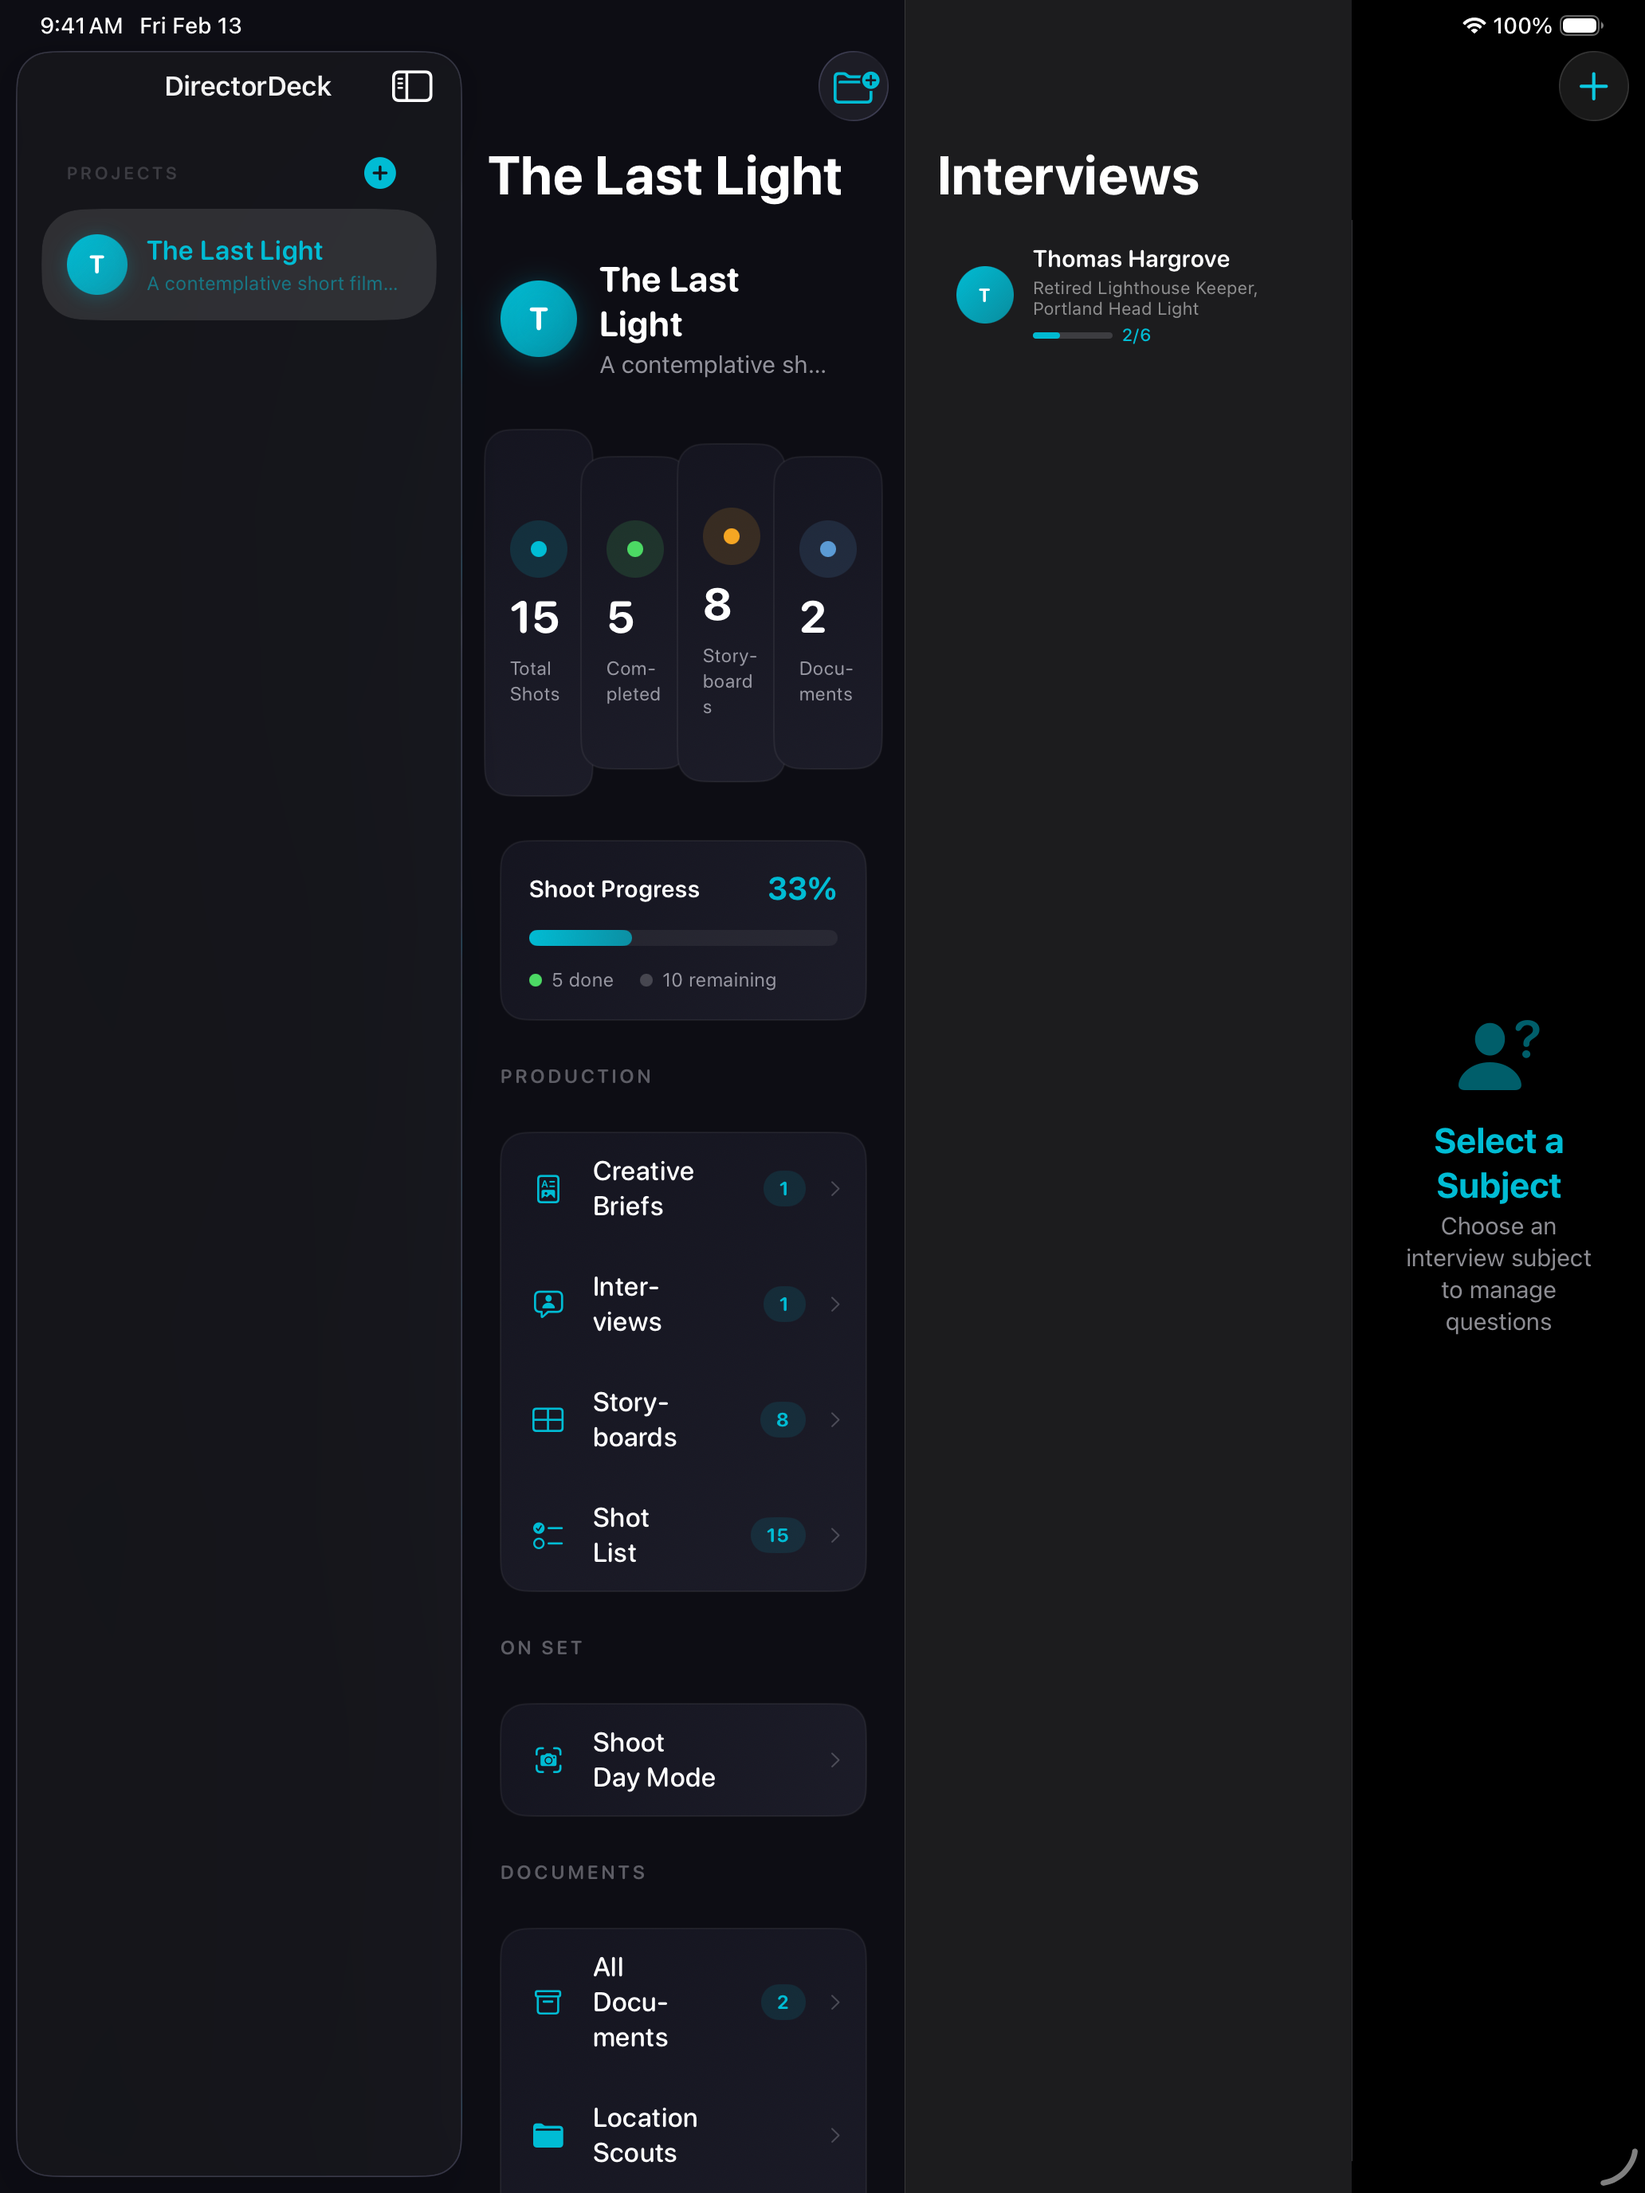
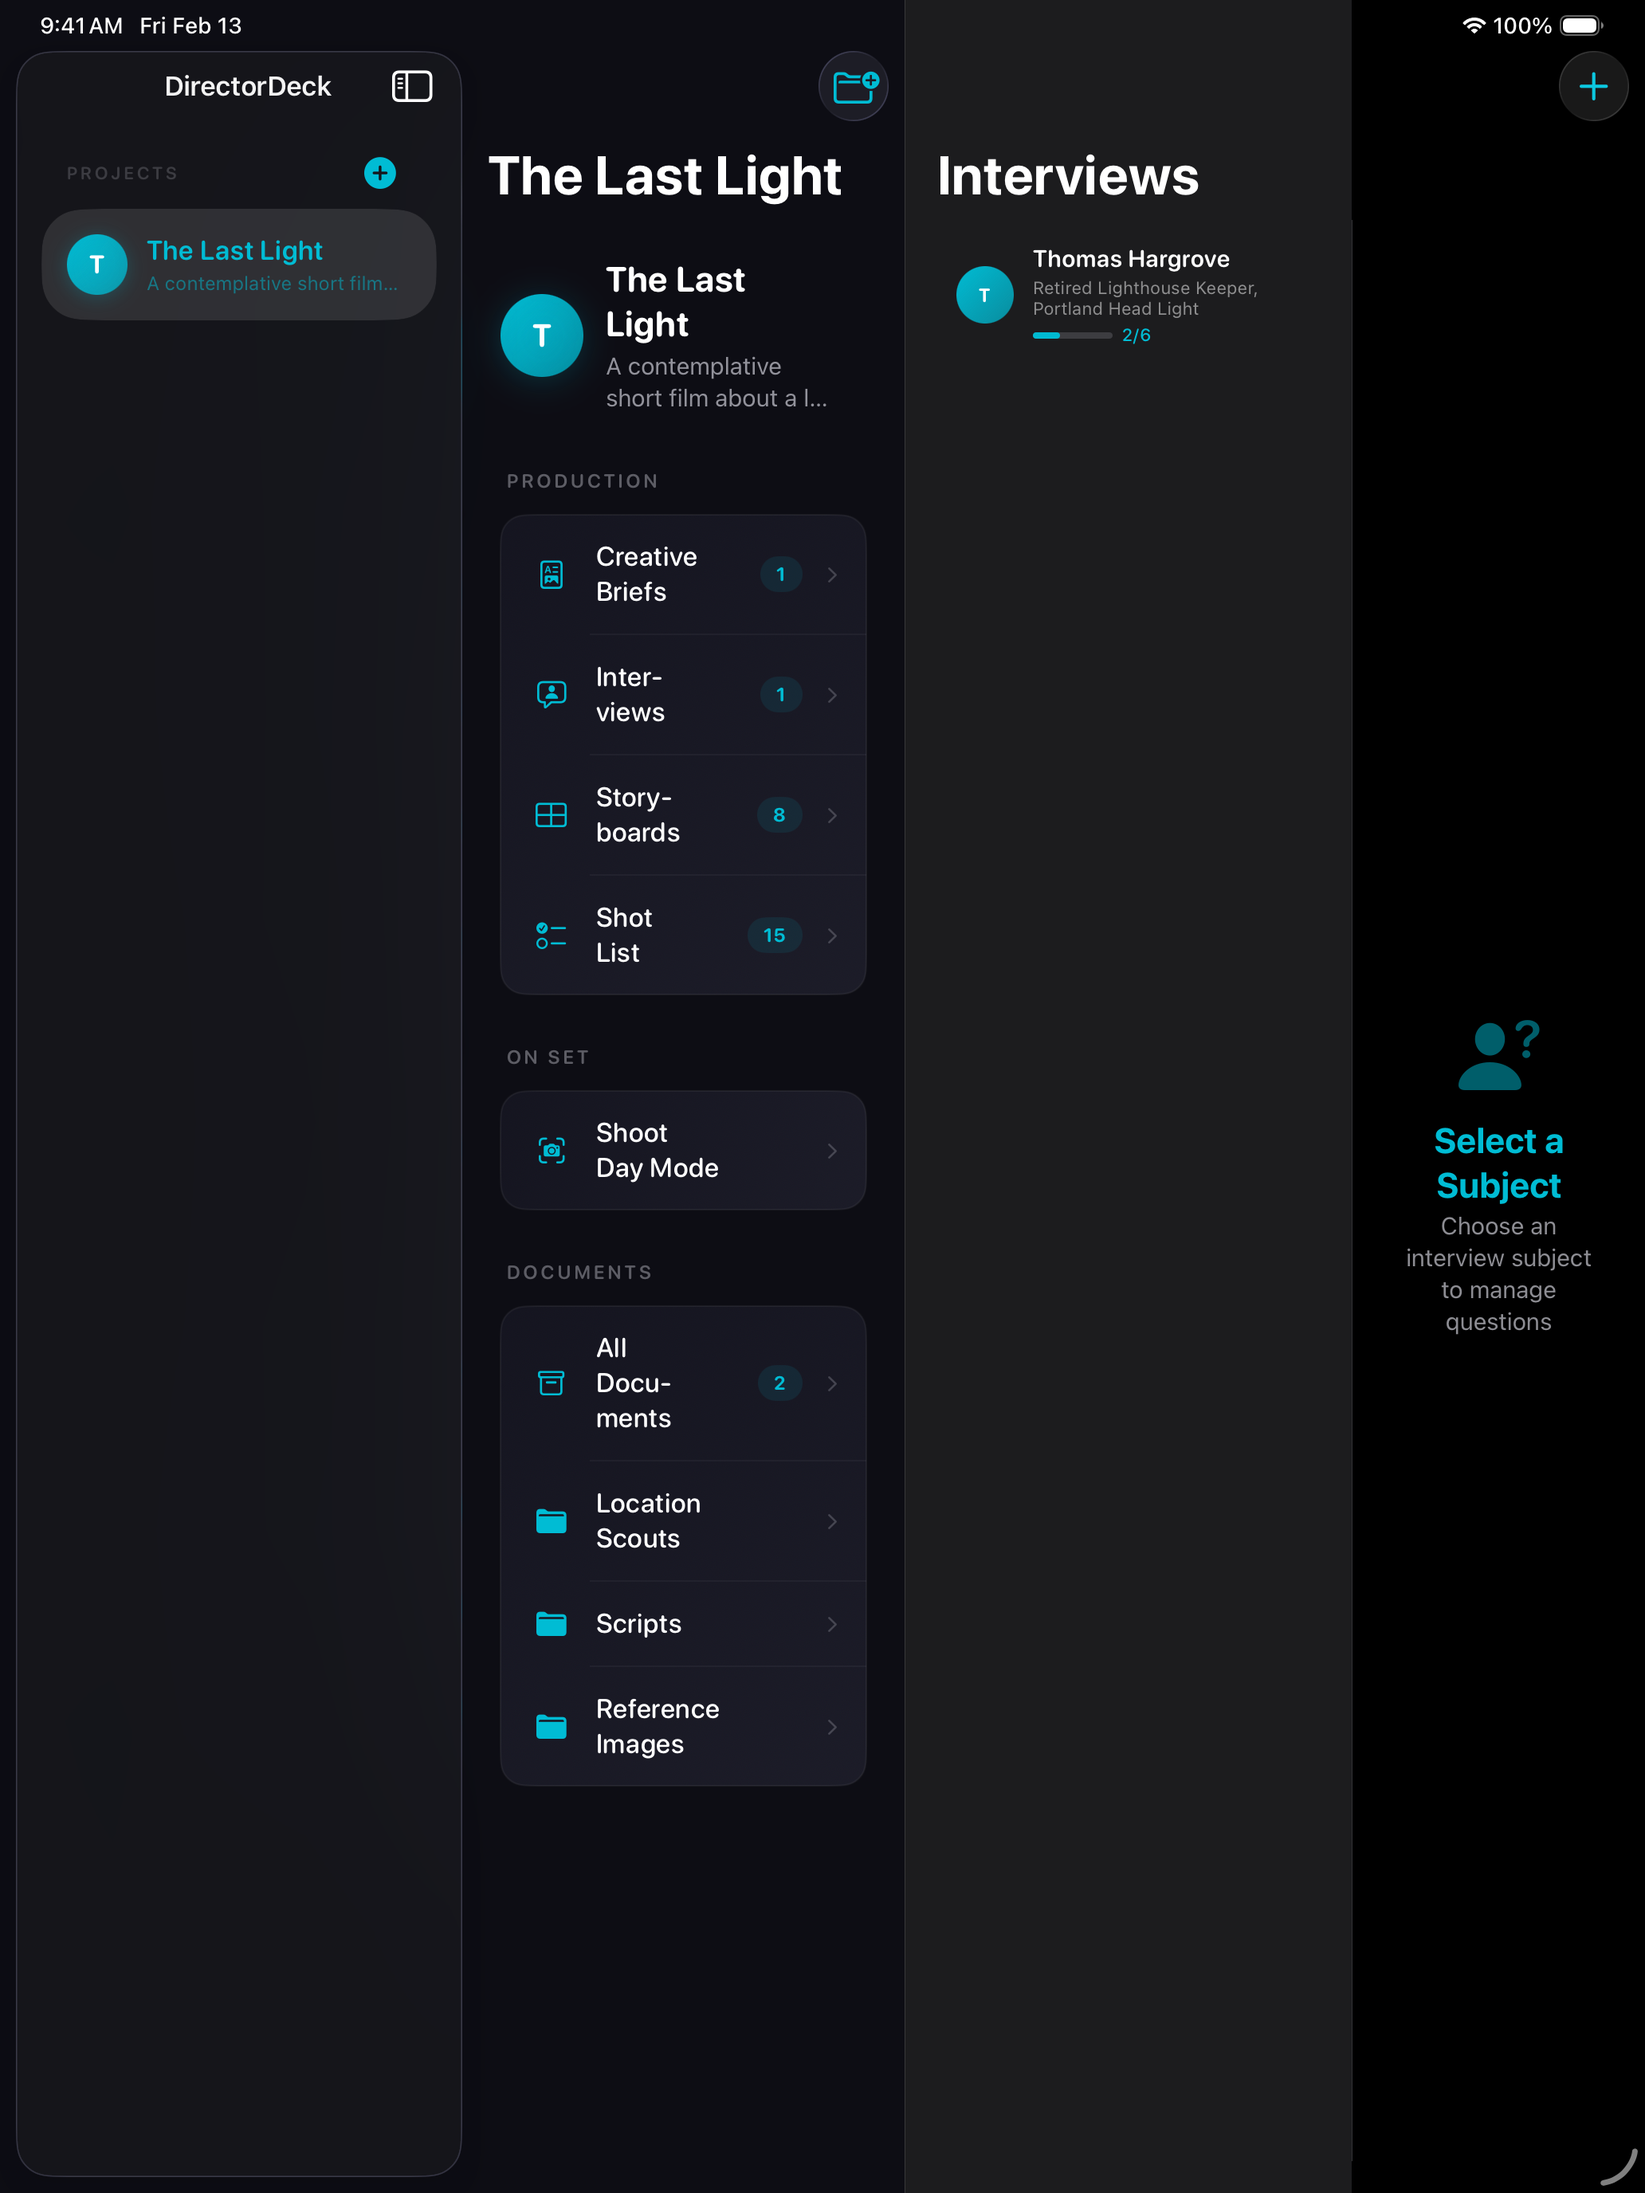
Remove dashboard widgets, keep refined design language: spacious layout, gradient cards, clean typography

diff --git a/DirectorDeck/Views/Projects/ProjectSectionsView.swift b/DirectorDeck/Views/Projects/ProjectSectionsView.swift
@@ -7,129 +7,65 @@ struct ProjectSectionsView: View {
     @State private var showNewFolder = false
     @State private var newFolderName = ""
     
-    private var completedShots: Int { project.shotListItems.filter(\.isCompleted).count }
-    private var totalShots: Int { project.shotListItems.count }
-    private var progress: Double { totalShots > 0 ? Double(completedShots) / Double(totalShots) : 0 }
-    
     var body: some View {
         ScrollView {
-            VStack(alignment: .leading, spacing: DDTheme.sectionSpacing) {
+            VStack(alignment: .leading, spacing: 32) {
                 // Project header
-                HStack(spacing: 14) {
-                    Circle()
-                        .fill(DDTheme.tealGradient)
-                        .frame(width: 48, height: 48)
-                        .overlay {
-                            Text(String(project.name.prefix(1)).uppercased())
-                                .font(.system(.title3, design: .rounded, weight: .bold))
-                                .foregroundStyle(.white)
+                VStack(alignment: .leading, spacing: 14) {
+                    HStack(spacing: 14) {
+                        Circle()
+                            .fill(DDTheme.tealGradient)
+                            .frame(width: 52, height: 52)
+                            .overlay {
+                                Text(String(project.name.prefix(1)).uppercased())
+                                    .font(.system(.title3, design: .rounded, weight: .bold))
+                                    .foregroundStyle(.white)
+                            }
+                            .shadow(color: DDTheme.teal.opacity(0.25), radius: 10, y: 3)
+                        
+                        VStack(alignment: .leading, spacing: 4) {
+                            Text(project.name)
+                                .font(.system(.title2, design: .rounded, weight: .bold))
+                            if !project.projectDescription.isEmpty {
+                                Text(project.projectDescription)
+                                    .font(.subheadline)
+                                    .foregroundStyle(.secondary)
+                                    .lineLimit(2)
+                            }
                         }
-                        .shadow(color: DDTheme.teal.opacity(0.3), radius: 8, y: 2)
-                    
-                    VStack(alignment: .leading, spacing: 3) {
-                        Text(project.name)
-                            .font(.system(.title2, design: .rounded, weight: .bold))
-                        if !project.projectDescription.isEmpty {
-                            Text(project.projectDescription)
-                                .font(.subheadline)
-                                .foregroundStyle(.secondary)
-                                .lineLimit(1)
-                        }
+                        Spacer()
                     }
-                    Spacer()
                 }
                 .padding(.bottom, 4)
                 
-                // Hero stats grid
-                LazyVGrid(columns: [
-                    GridItem(.flexible(), spacing: 12),
-                    GridItem(.flexible(), spacing: 12),
-                    GridItem(.flexible(), spacing: 12),
-                    GridItem(.flexible(), spacing: 12)
-                ], spacing: 12) {
-                    StatCard(value: "\(totalShots)", label: "Total Shots", color: DDTheme.teal)
-                    StatCard(value: "\(completedShots)", label: "Completed", color: DDTheme.green)
-                    StatCard(value: "\(project.storyboardCards.count)", label: "Storyboards", color: DDTheme.orange)
-                    StatCard(value: "\(project.documents.count)", label: "Documents", color: DDTheme.softBlue)
-                }
-                
-                // Progress card
-                if totalShots > 0 {
-                    VStack(alignment: .leading, spacing: 14) {
-                        HStack {
-                            Text("Shoot Progress")
-                                .font(.system(.subheadline, design: .rounded, weight: .semibold))
-                            Spacer()
-                            Text("\(Int(progress * 100))%")
-                                .font(.system(.title3, design: .rounded, weight: .bold))
-                                .foregroundStyle(DDTheme.teal)
-                        }
-                        
-                        // Progress bar
-                        GeometryReader { geo in
-                            ZStack(alignment: .leading) {
-                                RoundedRectangle(cornerRadius: 6)
-                                    .fill(Color.white.opacity(0.06))
-                                    .frame(height: 10)
-                                RoundedRectangle(cornerRadius: 6)
-                                    .fill(DDTheme.tealGradient)
-                                    .frame(width: geo.size.width * progress, height: 10)
-                                    .animation(.spring(response: 0.6), value: progress)
-                            }
-                        }
-                        .frame(height: 10)
-                        
-                        HStack(spacing: 16) {
-                            HStack(spacing: 6) {
-                                Circle().fill(DDTheme.green).frame(width: 8, height: 8)
-                                Text("\(completedShots) done")
-                                    .font(.caption)
-                                    .foregroundStyle(.secondary)
-                            }
-                            HStack(spacing: 6) {
-                                Circle().fill(Color.white.opacity(0.2)).frame(width: 8, height: 8)
-                                Text("\(totalShots - completedShots) remaining")
-                                    .font(.caption)
-                                    .foregroundStyle(.secondary)
-                            }
-                        }
-                    }
-                    .padding(18)
-                    .dashboardCard()
-                }
-                
-                // Production section
-                SectionLabel(title: "PRODUCTION")
-                
-                VStack(spacing: 2) {
+                // Production
+                sectionGroup(title: "PRODUCTION") {
                     sectionRow(.briefs, icon: "doc.richtext", label: "Creative Briefs", count: project.briefs.count)
+                    thinDivider()
                     sectionRow(.interviews, icon: "person.bubble", label: "Interviews", count: project.interviewSubjects.count)
+                    thinDivider()
                     sectionRow(.storyboards, icon: "rectangle.split.2x2", label: "Storyboards", count: project.storyboardCards.count)
+                    thinDivider()
                     sectionRow(.shotList, icon: "checklist", label: "Shot List", count: project.shotListItems.count)
                 }
-                .dashboardCard()
                 
-                // On Set section
-                SectionLabel(title: "ON SET")
-                
-                VStack(spacing: 2) {
+                // On Set
+                sectionGroup(title: "ON SET") {
                     sectionRow(.shootDay, icon: "camera.viewfinder", label: "Shoot Day Mode", count: nil)
                 }
-                .dashboardCard()
                 
-                // Documents section
-                SectionLabel(title: "DOCUMENTS")
-                
-                VStack(spacing: 2) {
+                // Documents
+                sectionGroup(title: "DOCUMENTS") {
                     sectionRow(.documents, icon: "archivebox", label: "All Documents", count: project.documents.count)
                     
-                    ForEach(project.folders) { folder in
+                    ForEach(Array(project.folders.enumerated()), id: \.element.id) { index, folder in
+                        thinDivider()
                         sectionRow(.folder(folder), icon: "folder.fill", label: folder.name, count: nil)
                     }
                 }
-                .dashboardCard()
             }
-            .padding(DDTheme.largePadding)
+            .padding(.horizontal, DDTheme.largePadding)
+            .padding(.vertical, DDTheme.largePadding)
         }
         .background(DDTheme.deepBackground)
         .navigationTitle(project.name)
@@ -150,6 +86,25 @@ struct ProjectSectionsView: View {
                 newFolderName = ""
             }
         }
+    }
+    
+    private func sectionGroup<Content: View>(title: String, @ViewBuilder content: () -> Content) -> some View {
+        VStack(alignment: .leading, spacing: 14) {
+            SectionLabel(title: title)
+                .padding(.leading, 4)
+            
+            VStack(spacing: 0) {
+                content()
+            }
+            .dashboardCard()
+        }
+    }
+    
+    private func thinDivider() -> some View {
+        Rectangle()
+            .fill(Color.white.opacity(0.04))
+            .frame(height: 1)
+            .padding(.leading, 56)
     }
     
     private func sectionRow(_ section: SidebarSection, icon: String, label: String, count: Int?) -> some View {
@@ -174,47 +129,16 @@ struct ProjectSectionsView: View {
                         .foregroundStyle(DDTheme.teal)
                         .padding(.horizontal, 10)
                         .padding(.vertical, 4)
-                        .background(DDTheme.teal.opacity(0.12), in: Capsule())
+                        .background(DDTheme.teal.opacity(0.1), in: Capsule())
                 }
                 
                 Image(systemName: "chevron.right")
-                    .font(.caption2)
-                    .foregroundStyle(.secondary.opacity(0.4))
+                    .font(.caption2.weight(.medium))
+                    .foregroundStyle(.secondary.opacity(0.35))
             }
-            .padding(.horizontal, 16)
-            .padding(.vertical, 14)
+            .padding(.horizontal, 18)
+            .padding(.vertical, 16)
         }
         .buttonStyle(.plain)
-    }
-}
-
-// MARK: - Stat Card
-
-struct StatCard: View {
-    let value: String
-    let label: String
-    let color: Color
-    
-    var body: some View {
-        VStack(alignment: .leading, spacing: 8) {
-            Circle()
-                .fill(color.opacity(0.15))
-                .frame(width: 36, height: 36)
-                .overlay {
-                    Circle()
-                        .fill(color)
-                        .frame(width: 10, height: 10)
-                }
-            
-            Text(value)
-                .font(.system(.title, design: .rounded, weight: .bold))
-            
-            Text(label)
-                .font(.system(.caption, design: .rounded))
-                .foregroundStyle(.secondary)
-        }
-        .frame(maxWidth: .infinity, alignment: .leading)
-        .padding(16)
-        .dashboardCard()
     }
 }

diff --git a/DirectorDeck/Components/Theme.swift b/DirectorDeck/Components/Theme.swift
@@ -11,11 +11,8 @@ enum DDTheme {
     static let cardEnd = Color(hex: "#1C1C28")
     static let cardBorder = Color.white.opacity(0.06)
     
-    // Accent colors for data viz
-    static let orange = Color(hex: "#F5A623")
+    // Accent colors
     static let green = Color(hex: "#4CD964")
-    static let softBlue = Color(hex: "#5B9BD5")
-    static let purple = Color(hex: "#9B7FE6")
     
     static let cardCornerRadius: CGFloat = 16
     static let smallCornerRadius: CGFloat = 12
